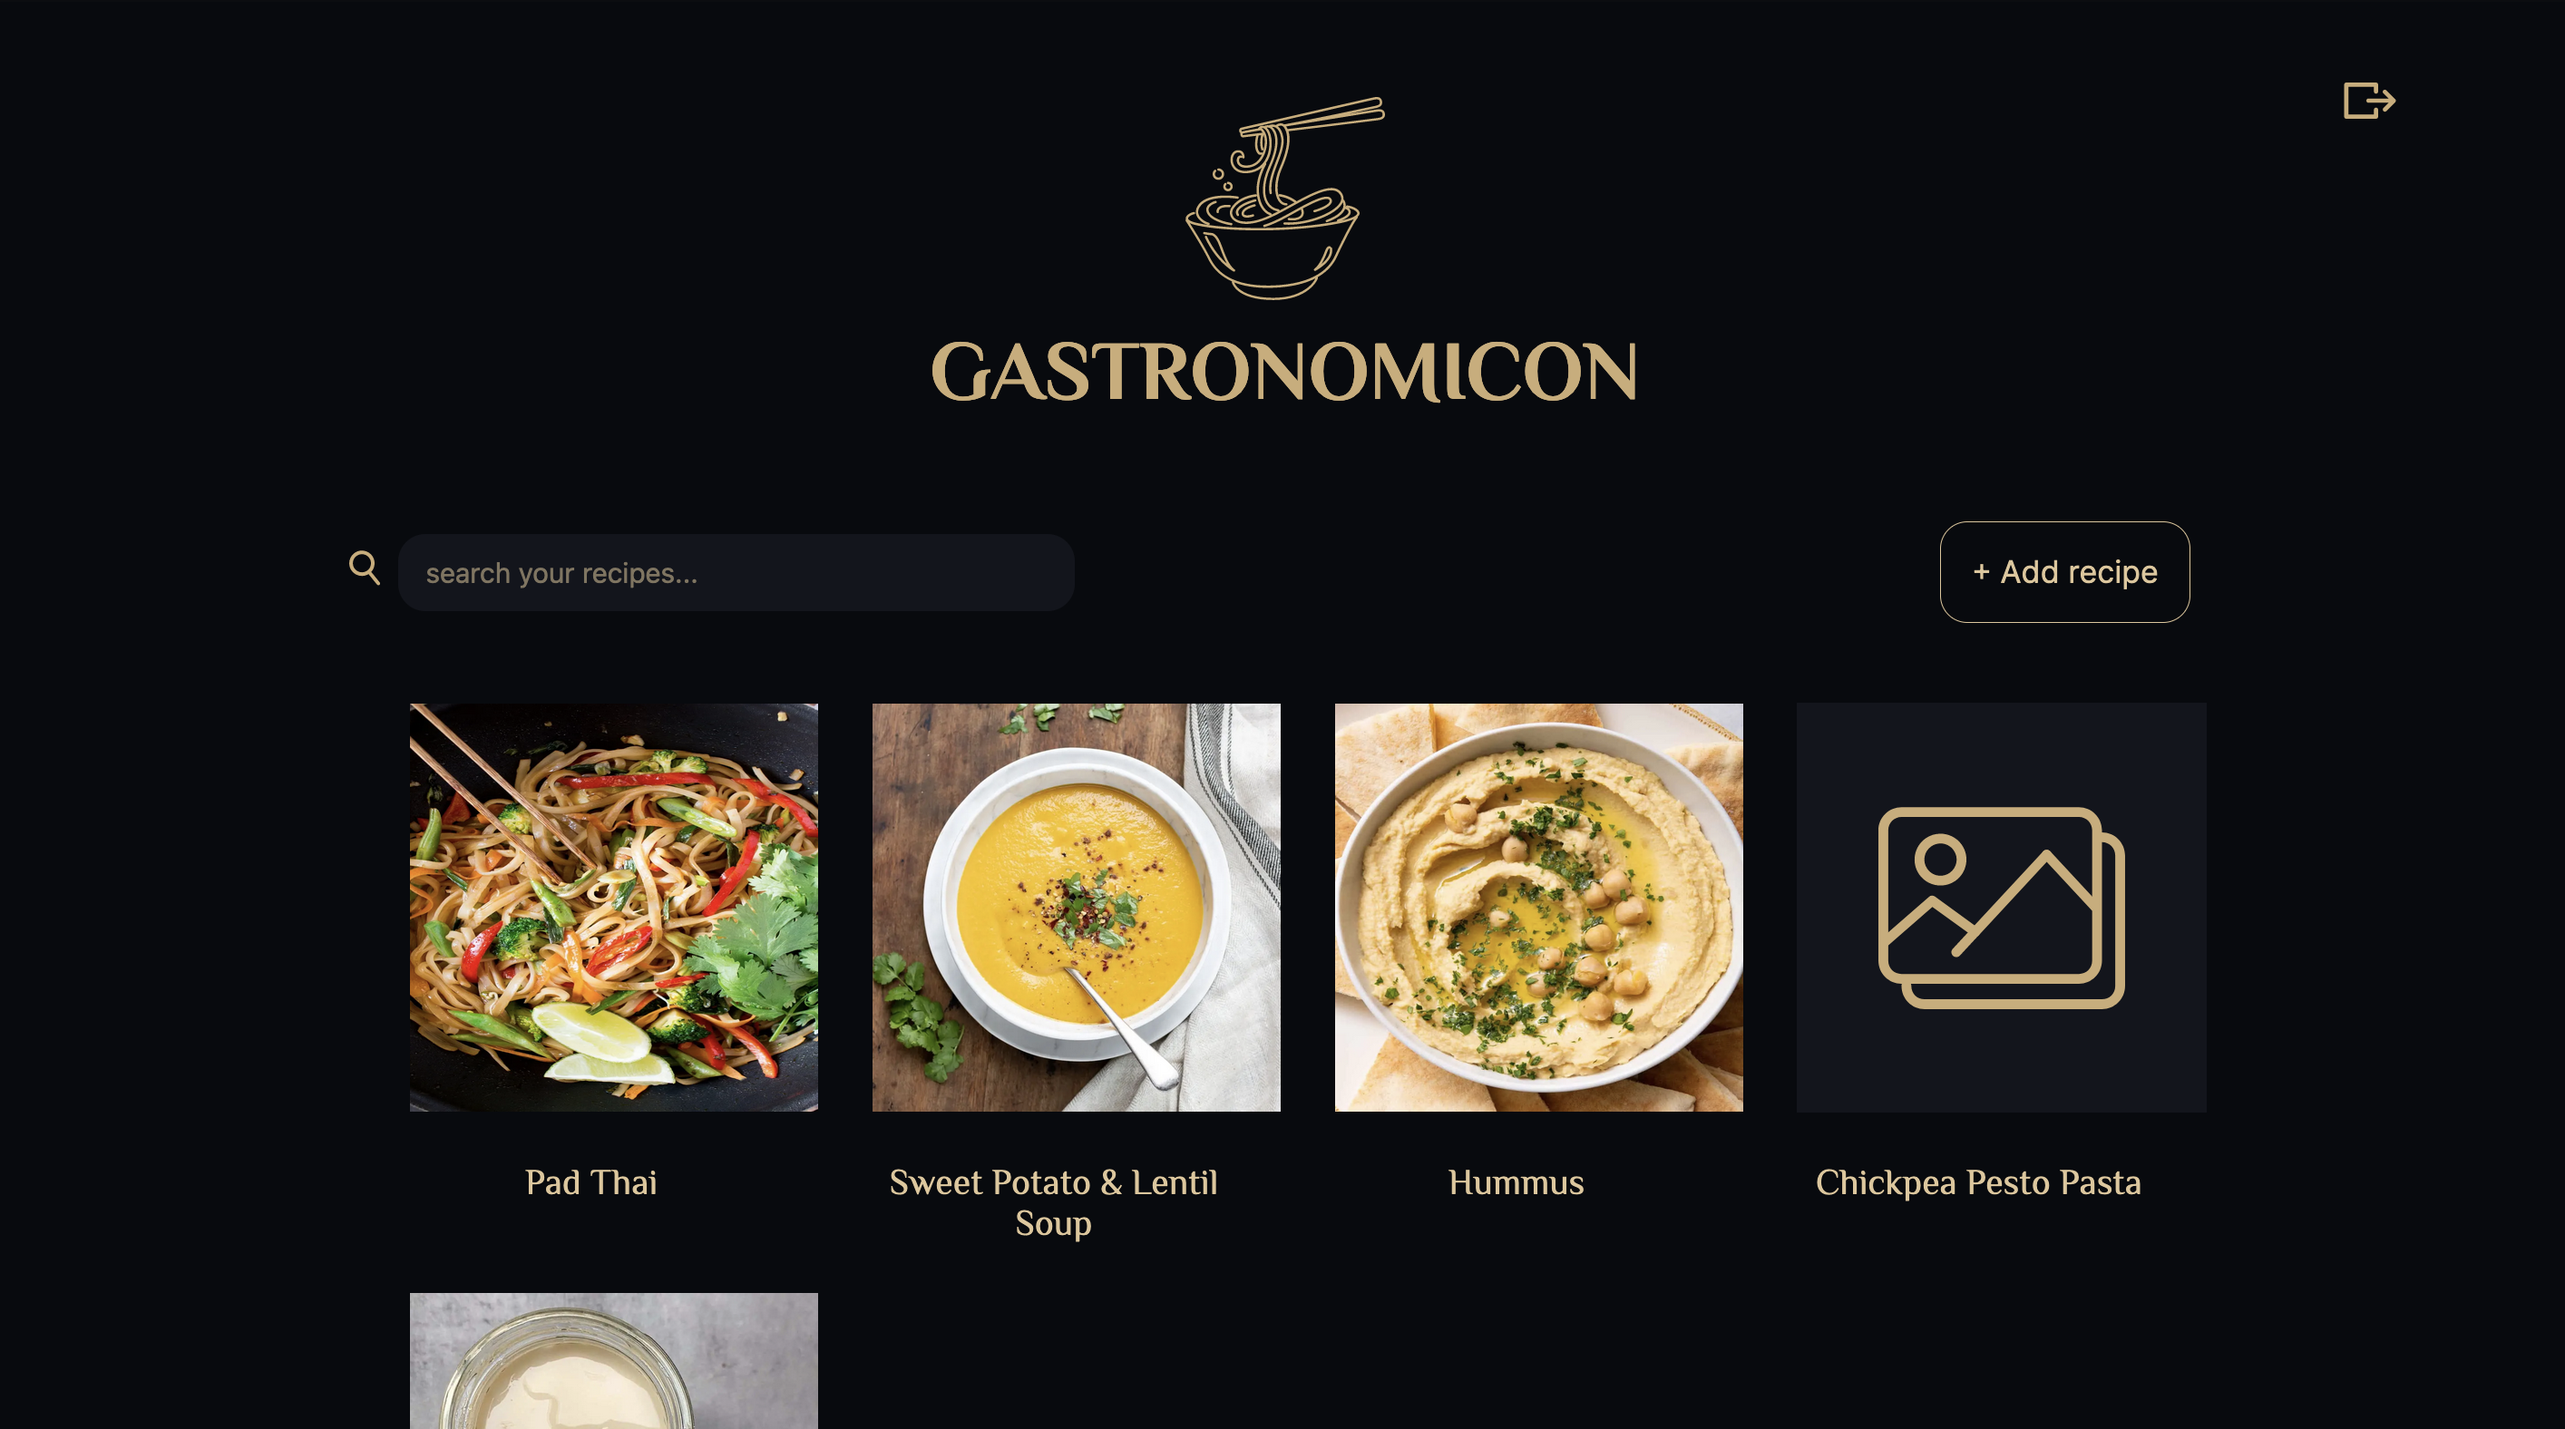
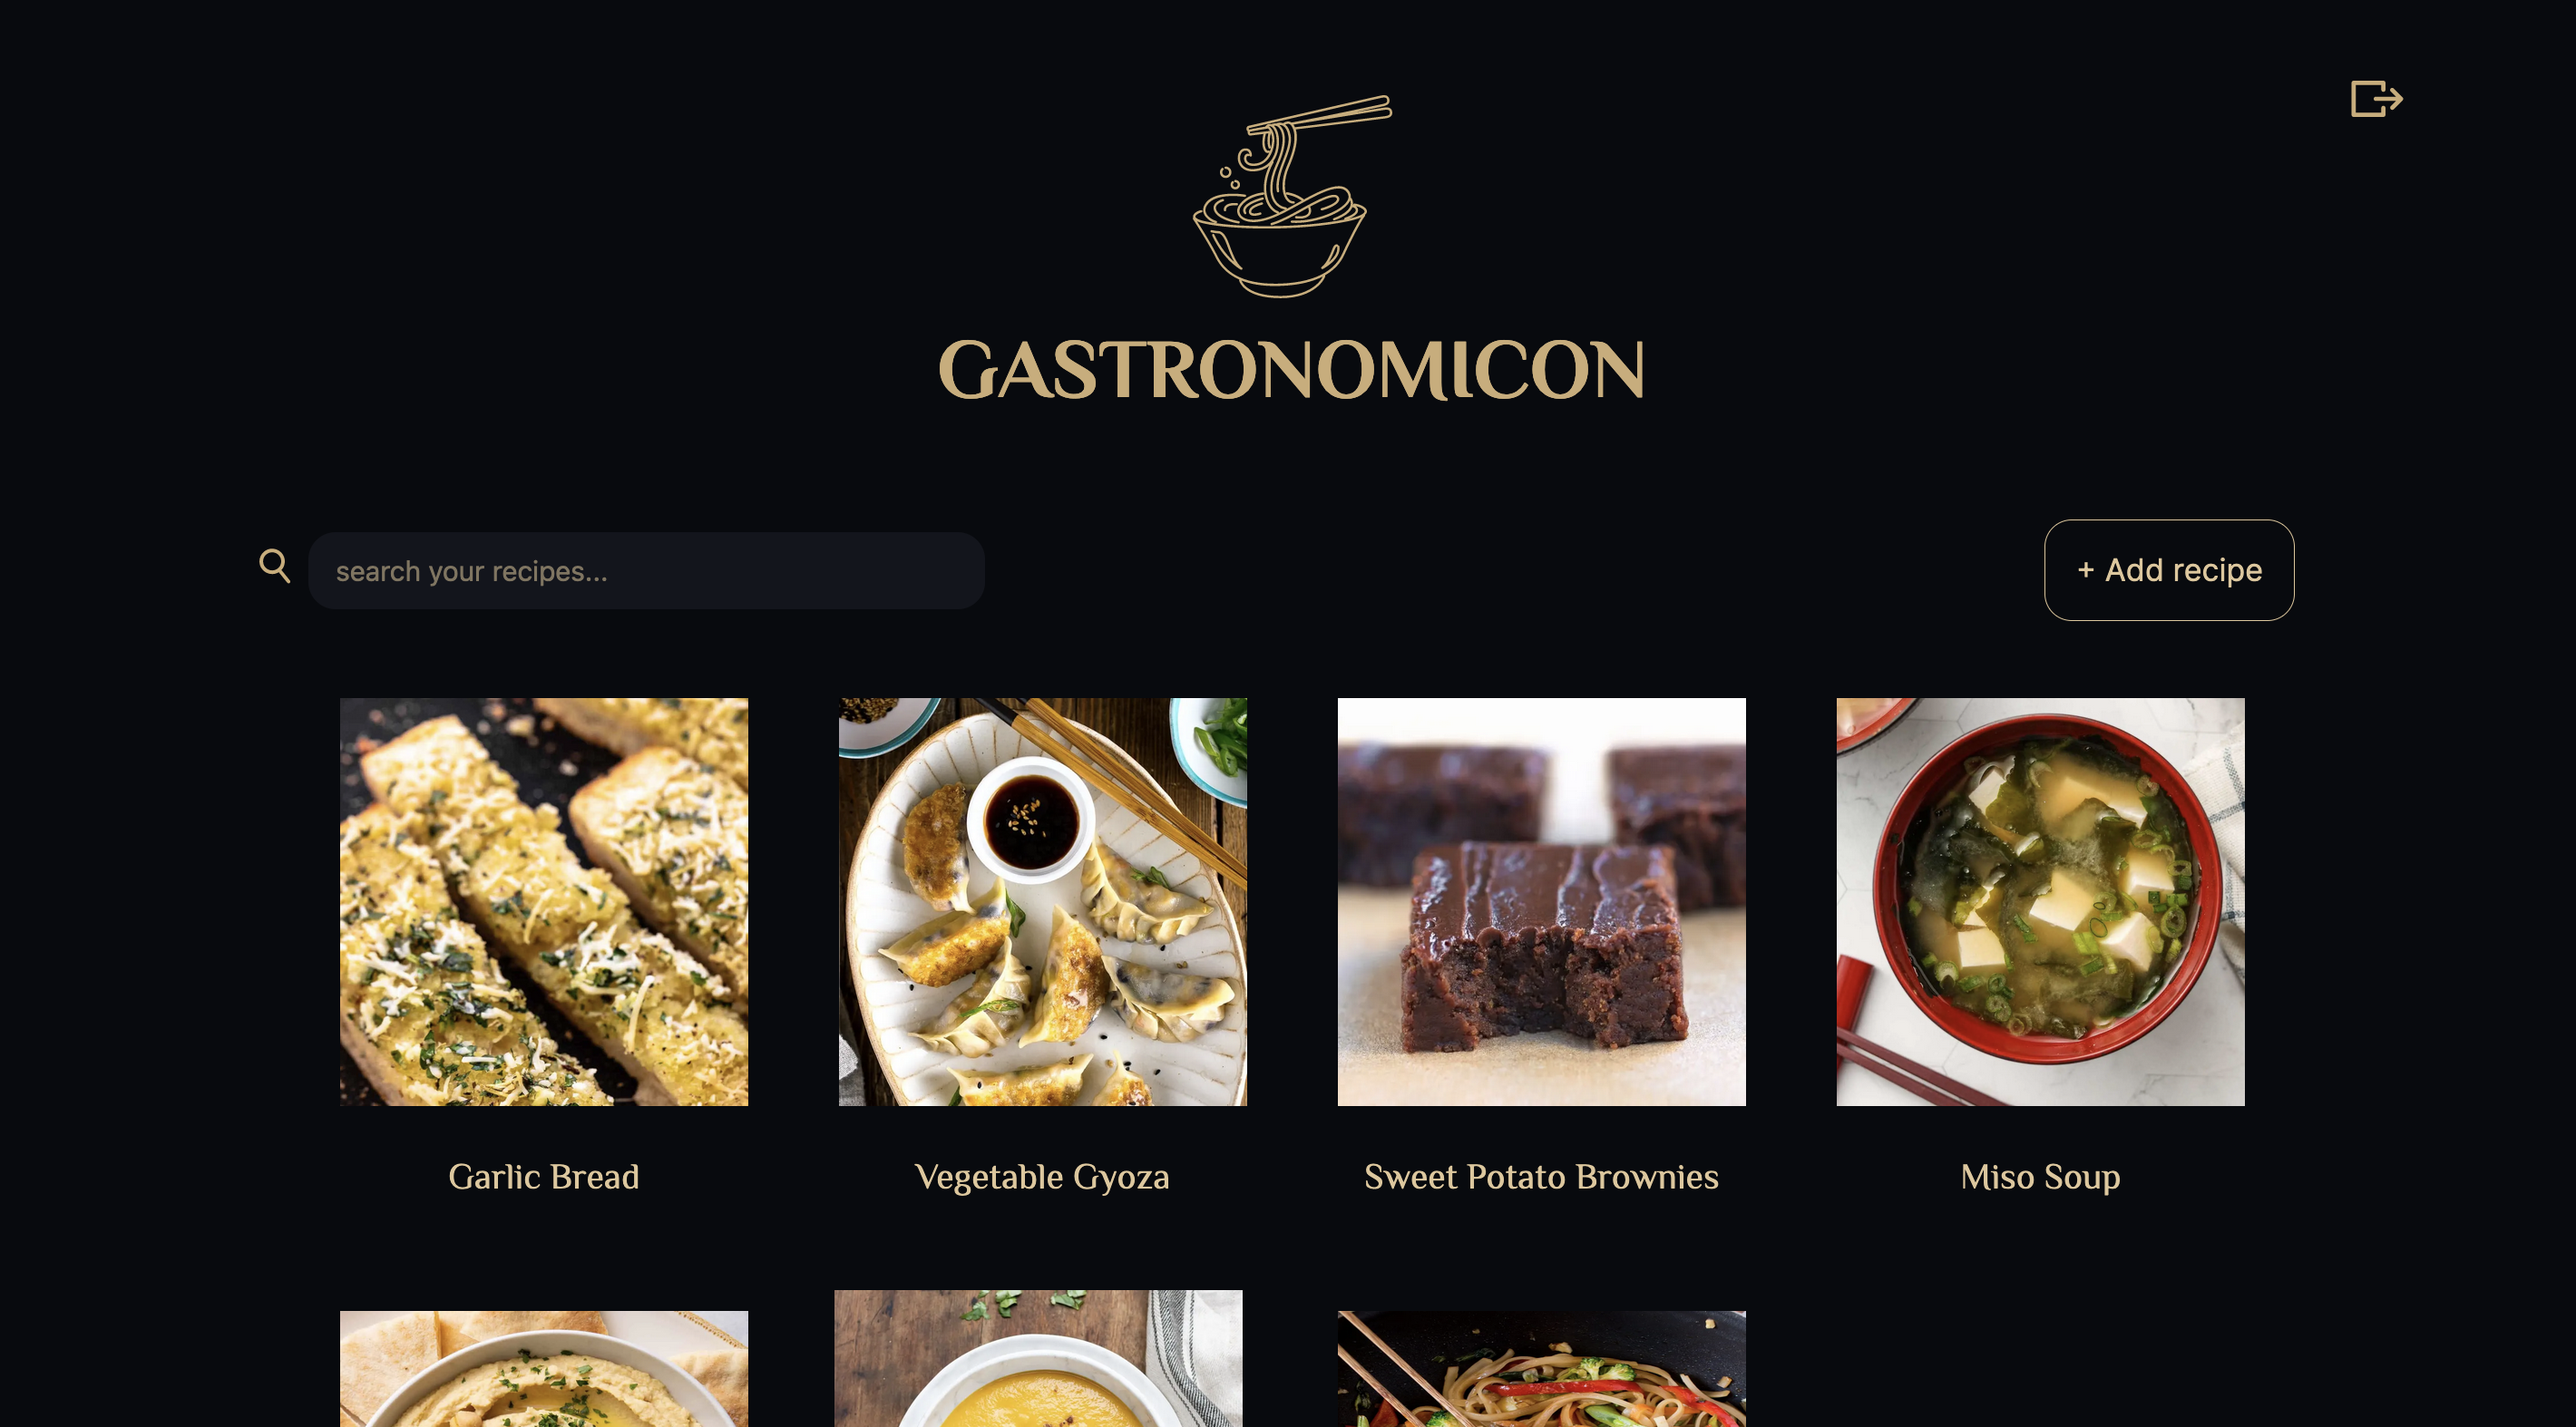
edited styling

diff --git a/app/components/RecipeCard.module.css b/app/components/RecipeCard.module.css
@@ -1,16 +1,23 @@
 .recipeCard {
     width: 15rem;
+    height: 19rem;
     color: var(--light-accent);
     border-radius: var(--border-radius);
-    /* padding: 0.2rem 0.5rem;
-    margin: 10px;
-    background-color: var(--dark-accent); */
+    margin: 0px 10px;
+    margin-bottom: 15px;
+    display: flex;
+    align-items: center;
+    justify-content: center;
+}
 
+.recipeCard:hover {
+    background-image: linear-gradient(to bottom right, var(--background-color), var(--dark-accent),  var(--background-color));
 }
 
 .name {
     text-align: center;
-    margin: 0px 20px;
+    margin: 10px 20px;
+    margin-top: 15px;
     font-weight: 500;
     font-family: var(--font-heading);
 }
@@ -21,7 +28,6 @@
     display: flex;
     justify-content: center;
     align-items: center;
-    margin: 15px;
 }
 
 .defaultImageContainer {
@@ -31,6 +37,7 @@
     justify-content: center;
     align-items: center;
     margin: 27px;
+    margin-top: 10px;
     background-color: var(--dark-accent);
 }
 
@@ -44,5 +51,4 @@
     margin: 0 auto;
     width: 60%;
     height: 60%;
-    /* border: 3px solid var(--text-color); */
 }

diff --git a/app/recipe/[slug]/page.module.css b/app/recipe/[slug]/page.module.css
@@ -1,8 +1,8 @@
 .main {
-  justify-content: space-between;
-  align-items: left;
-  padding: 3rem 5rem;
-  min-height: 100vh;
+    justify-content: space-between;
+    align-items: left;
+    padding: 3rem 5rem;
+    min-height: 100vh;
 }
 
 .recipeContainer {
@@ -40,7 +40,8 @@
     margin-top: 5px;
 }
 
-.ingredientsHeading, .instructionsHeading {
+.ingredientsHeading,
+.instructionsHeading {
     font-size: 1.5rem;
     font-family: var(--font-heading);
     margin: 1rem 0;
@@ -94,7 +95,7 @@
 }
 
 .linkContainer {
-    align-items:flex-start;
+    align-items: flex-start;
 }
 
 .linkURL {
@@ -104,6 +105,7 @@
 .imageContainer {
     width: 230px;
     height: 230px;
+    margin-bottom: 20px;
     display: flex;
     justify-content: center;
     align-items: center;
